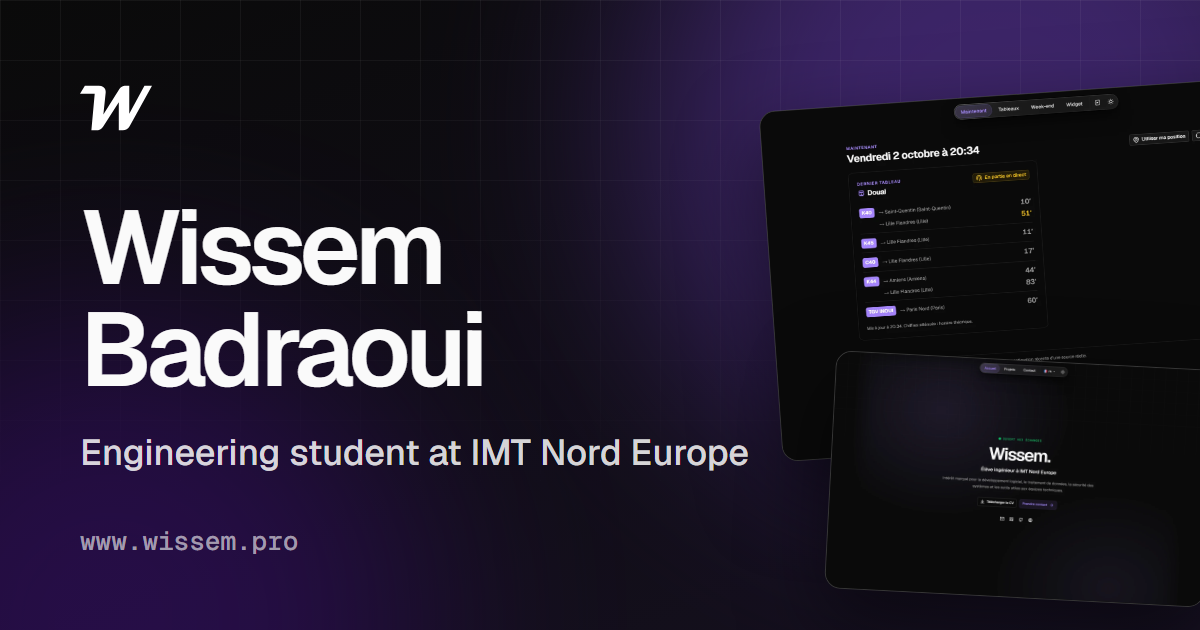
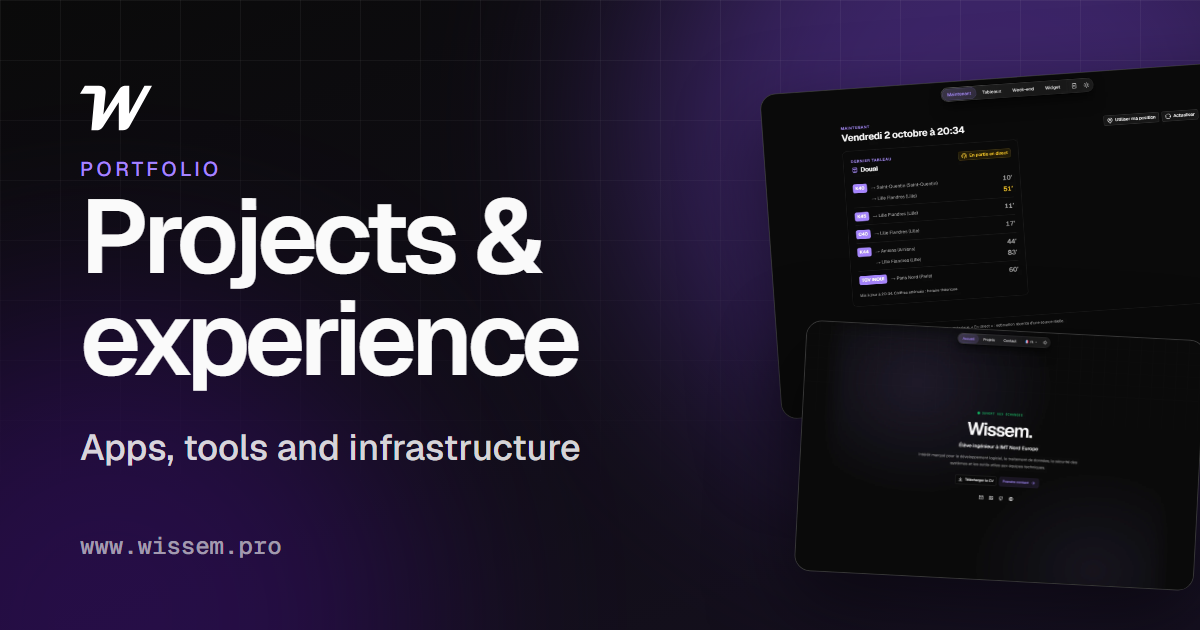
feat: sharing image with the same layout as the resume card (#6)
Kicker, title and subtitle like the resume card, two screenshots, no repeated name and status.

diff --git a/scripts/og.ts b/scripts/og.ts
@@ -18,12 +18,30 @@ const WIDTH = 1200
 const HEIGHT = 630
 const OUTPUT_DIR = new URL('../public/images/', import.meta.url)
 
+/**
+ * Same structure as the resume card of the CV repository: a kicker, a title and a subtitle.
+ * The name and status are left out, the profile where the link is shared already shows them.
+ */
+const COPY = {
+  fr: {
+    kicker: 'PORTFOLIO',
+    heading: 'Projets &<br>expériences',
+    subtitle: 'Applications, outils et infrastructure',
+  },
+  en: {
+    kicker: 'PORTFOLIO',
+    heading: 'Projects &<br>experience',
+    subtitle: 'Apps, tools and infrastructure',
+  },
+} as const
+
 function fontUrl(path: string) {
   return pathToFileURL(require.resolve(path)).href
 }
 
 function template(locale: keyof typeof contentByLocale) {
-  const { profile, meta } = contentByLocale[locale]
+  const { meta } = contentByLocale[locale]
+  const copy = COPY[locale]
   const sans = fontUrl('@fontsource-variable/geist/files/geist-latin-wght-normal.woff2')
   const mono = fontUrl('@fontsource-variable/geist-mono/files/geist-mono-latin-wght-normal.woff2')
   const logo = pathToFileURL(fileURLToPath(new URL('Logo_White.svg', OUTPUT_DIR))).href
@@ -38,13 +56,9 @@ function template(locale: keyof typeof contentByLocale) {
   * { box-sizing: border-box; margin: 0; }
   body {
     position: relative;
-    display: flex;
     width: ${WIDTH}px;
     height: ${HEIGHT}px;
-    flex-direction: column;
-    justify-content: space-between;
     overflow: hidden;
-    padding: 72px 80px;
     background: linear-gradient(160deg, #0a0a0a 0%, #15101f 100%);
     color: #fafafa;
     font-family: Geist, sans-serif;
@@ -61,11 +75,11 @@ function template(locale: keyof typeof contentByLocale) {
     background-size: 60px 60px;
     mask-image: linear-gradient(to bottom, black, transparent 85%);
   }
-  .text { position: relative; width: 680px; }
-  .logo { width: 72px; height: 72px; }
-  .url { font: 500 26px "Geist Mono", monospace; color: rgba(250, 250, 250, 0.6); }
-  h1 { font-size: 104px; font-weight: 600; letter-spacing: -0.05em; line-height: 0.98; }
-  .status { margin-top: 28px; white-space: nowrap; font-size: 36px; font-weight: 500; color: rgba(250, 250, 250, 0.86); }
+  .logo { position: absolute; top: 72px; left: 80px; width: 72px; height: 72px; }
+  .kicker { position: absolute; top: 156px; left: 80px; font-size: 20px; font-weight: 500; letter-spacing: 0.175em; color: #a684ff; }
+  h1 { position: absolute; top: 186px; left: 80px; font-size: 104px; font-weight: 600; letter-spacing: -0.05em; line-height: 0.98; }
+  .subtitle { position: absolute; top: 424px; left: 80px; font-size: 36px; font-weight: 500; color: rgba(250, 250, 250, 0.86); }
+  .url { position: absolute; top: 530px; left: 80px; font: 500 24px "Geist Mono", monospace; color: rgba(250, 250, 250, 0.6); }
   .shot {
     position: absolute;
     overflow: hidden;
@@ -75,21 +89,20 @@ function template(locale: keyof typeof contentByLocale) {
     box-shadow: 0 30px 80px rgba(0, 0, 0, 0.55);
   }
   .shot img { display: block; width: 100%; }
-  .shot--main { top: 92px; left: 770px; width: 560px; transform: rotate(-4deg); }
-  .shot--side { top: 360px; left: 830px; width: 380px; transform: rotate(3deg); }
+  .shot--a { top: 76px; left: 770px; width: 520px; transform: rotate(-4deg); }
+  .shot--b { top: 330px; left: 800px; width: 400px; transform: rotate(3deg); }
 </style>
 <body>
   <div class="glow glow--a"></div>
   <div class="glow glow--b"></div>
   <div class="grid"></div>
-  <div class="shot shot--main"><img src="${shot('move')}" alt=""></div>
-  <div class="shot shot--side"><img src="${shot('portfolio')}" alt=""></div>
-  <div class="text"><img class="logo" src="${logo}" alt=""></div>
-  <div class="text">
-    <h1>Wissem<br>Badraoui</h1>
-    <p class="status">${profile.status}</p>
-  </div>
-  <div class="text"><span class="url">www.wissem.pro</span></div>
+  <div class="shot shot--a"><img src="${shot('move')}" alt=""></div>
+  <div class="shot shot--b"><img src="${shot('portfolio')}" alt=""></div>
+  <img class="logo" src="${logo}" alt="">
+  <p class="kicker">${copy.kicker}</p>
+  <h1>${copy.heading}</h1>
+  <p class="subtitle">${copy.subtitle}</p>
+  <span class="url">www.wissem.pro</span>
   <title>${meta.defaultTitle}</title>
 </body>
 </html>`

diff --git a/CHANGELOG.md b/CHANGELOG.md
@@ -4,6 +4,7 @@ All notable changes to this project are documented here. The format follows [Kee
 
 ## [Unreleased]
 
+- Sharing image of the site: it now has the same layout as the resume card (kicker, title "Projects & experience", subtitle) with two screenshots, instead of repeating the name and status already shown on the profile where the link is shared.
 ## [1.2.0] - 2026-10-02
 
 ### Changed
